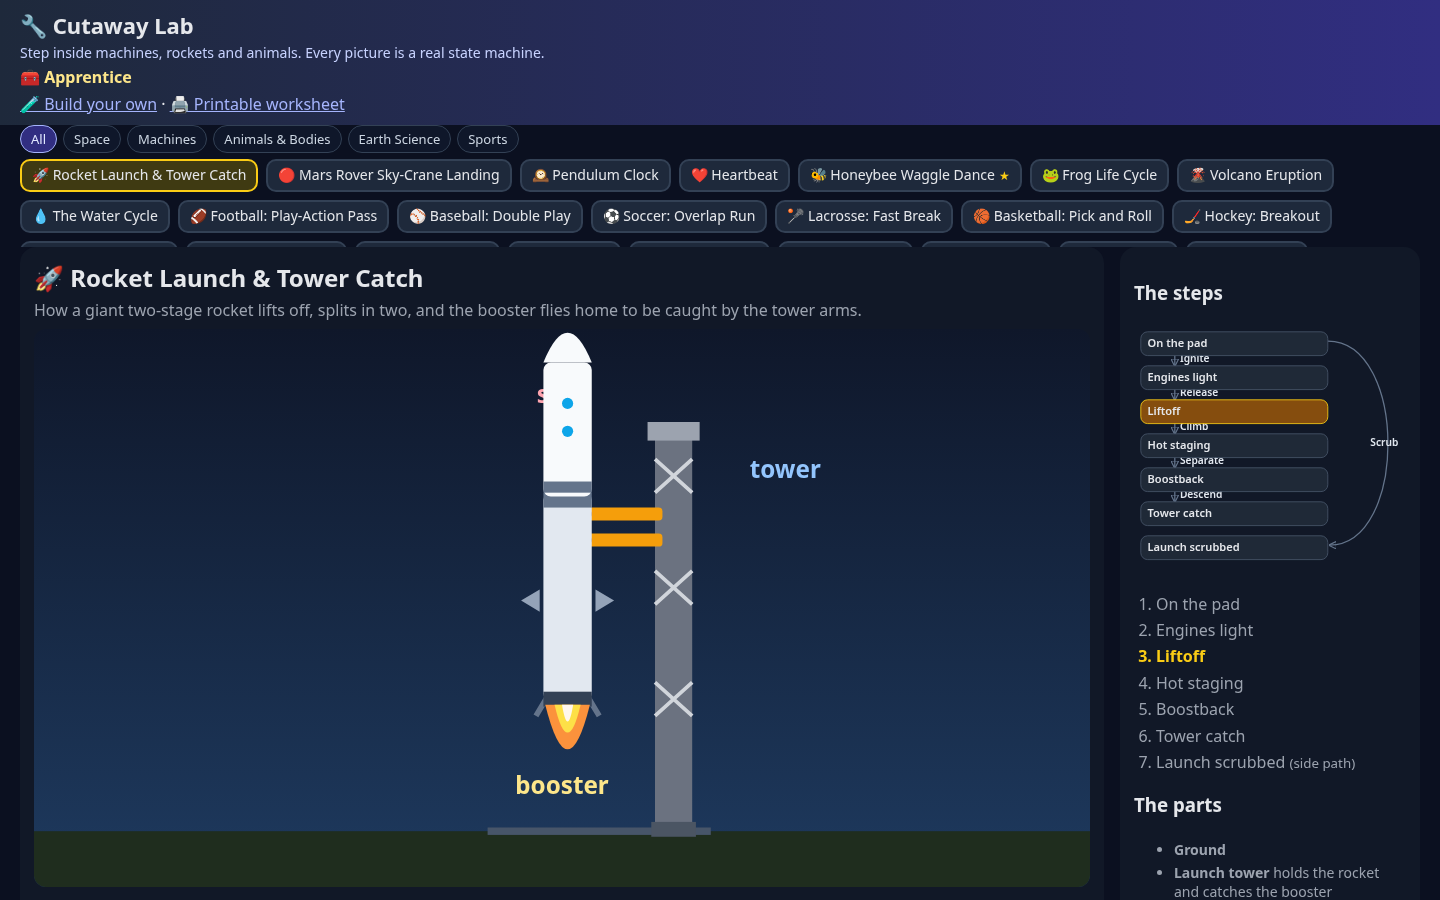
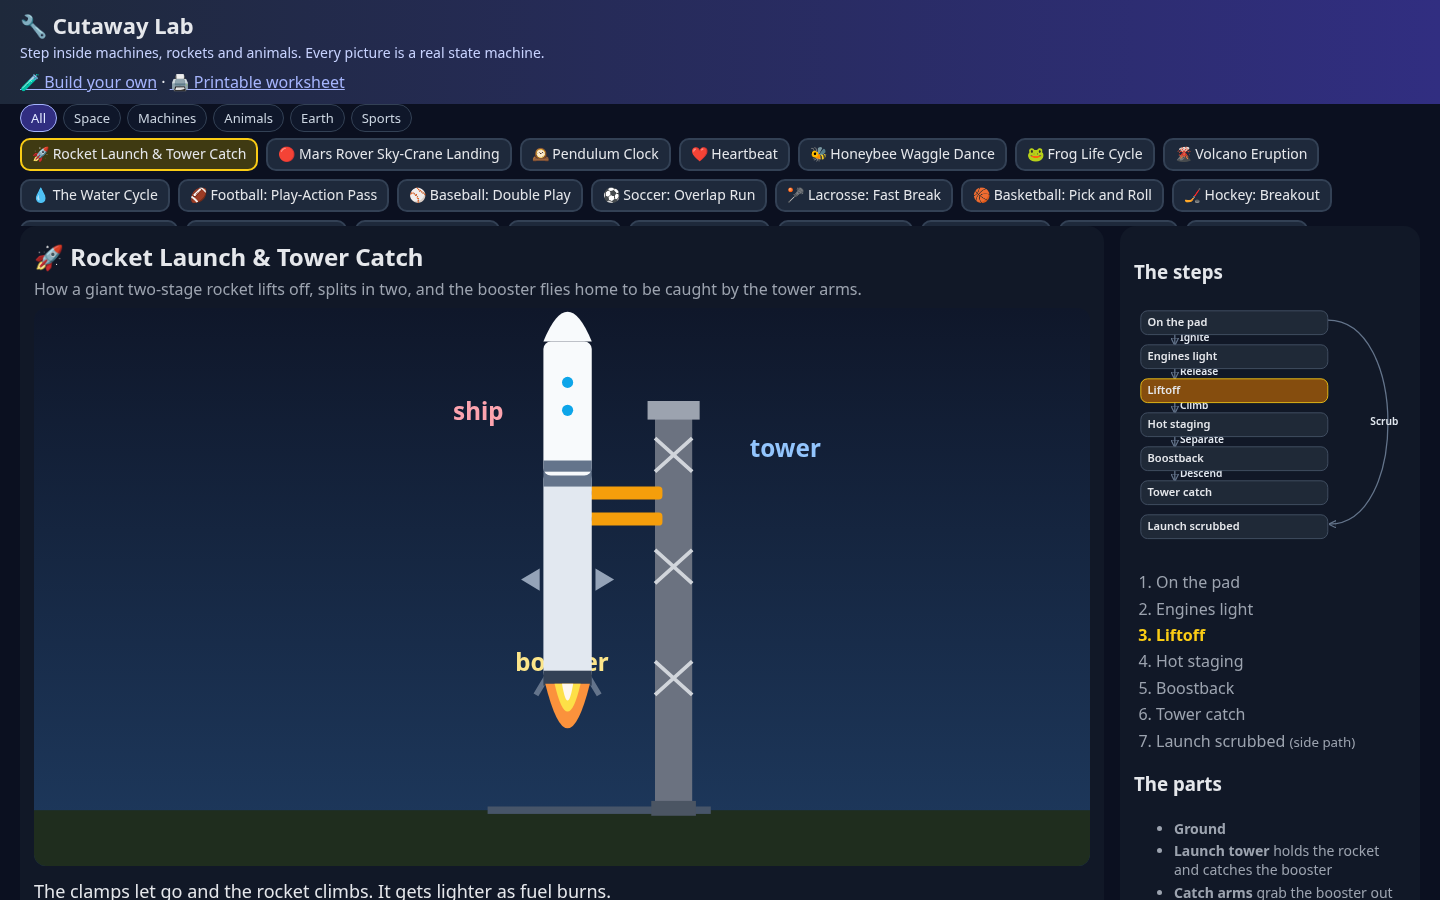
v1.0: polish — extinguisher/pulley/compass labels, starship ship tag tracks climb, phone topic shorts, hockey/basketball role tags

diff --git a/machines/starship.js b/machines/starship.js
@@ -10,7 +10,7 @@ export default {
     { id: 'lblBooster', label: 'Booster label',
       svg: '<text x="200" y="250" text-anchor="middle" fill="#fde68a" font-size="13" font-weight="700">booster</text>' },
     { id: 'lblShip', label: 'Ship label',
-      svg: '<text x="200" y="40" text-anchor="middle" fill="#fda4af" font-size="13" font-weight="700">ship</text>', pose: { opacity: 0 } },
+      svg: '<text x="155" y="110" text-anchor="middle" fill="#fda4af" font-size="13" font-weight="700">ship</text>', pose: { opacity: 0 } },
     { id: 'arms', label: 'Catch arms', job: 'grab the booster out of the air', svg: '<rect x="210" y="96" width="44" height="7" rx="2" fill="#f59e0b"/><rect x="210" y="110" width="44" height="7" rx="2" fill="#f59e0b"/><circle cx="214" cy="99.5" r="2" fill="#78350f"/><circle cx="214" cy="113.5" r="2" fill="#78350f"/>', explode: [40, -20] },
     { id: 'lblArms', label: 'Arms label',
       svg: '<text x="340" y="140" text-anchor="middle" fill="#fb923c" font-size="12" font-weight="700">arms</text>', pose: { opacity: 1 } },
@@ -21,8 +21,8 @@ export default {
   states: {
     pad: { label: 'On the pad', caption: 'The rocket stands next to the tower, full of super-cold fuel.', on: { IGNITE: 'ignition', SCRUB: 'scrubbed' } , parts: { lblShip: { opacity: 0 }, lblBooster: { opacity: 1 }, lblTower: { opacity: 1 } }},
     ignition: { label: 'Engines light', caption: 'Dozens of engines light. Clamps hold the rocket down for a moment.', on: { RELEASE: 'liftoff' }, parts: { lblShip: { opacity: 0.5 }, lblBooster: { opacity: 1 },  flame: { opacity: 1 } } },
-    liftoff: { label: 'Liftoff', caption: 'The clamps let go and the rocket climbs. It gets lighter as fuel burns.', on: { CLIMB: 'staging' }, parts: { lblArms: { opacity: 0 },  lblShip: { opacity: 1 }, lblBooster: { opacity: 1 },  flame: { opacity: 1, y: -60 }, booster: { y: -60 }, ship: { y: -60 } } },
-    staging: { label: 'Hot staging', caption: 'High up, the ship lights its own engines and pushes off the booster.', on: { SEPARATE: 'boostback' }, parts: { lblArms: { opacity: 0 },  lblShip: { opacity: 1 }, lblBooster: { opacity: 1 },  booster: { y: -70, x: -30, rot: -10 }, ship: { y: -60, x: 45, rot: 8 }, flame: { opacity: 1, y: -70, x: -30, rot: -10, scale: 0.6 } } },
+    liftoff: { label: 'Liftoff', caption: 'The clamps let go and the rocket climbs. It gets lighter as fuel burns.', on: { CLIMB: 'staging' }, parts: { lblArms: { opacity: 0 },  lblShip: { opacity: 1, y: -50 }, lblBooster: { opacity: 1, y: -55 },  flame: { opacity: 1, y: -60 }, booster: { y: -60 }, ship: { y: -60 } } },
+    staging: { label: 'Hot staging', caption: 'High up, the ship lights its own engines and pushes off the booster.', on: { SEPARATE: 'boostback' }, parts: { lblArms: { opacity: 0 },  lblShip: { opacity: 1, y: -45, x: 55 }, lblBooster: { opacity: 1, y: -55, x: -40 },  booster: { y: -70, x: -30, rot: -10 }, ship: { y: -60, x: 45, rot: 8 }, flame: { opacity: 1, y: -70, x: -30, rot: -10, scale: 0.6 } } },
     boostback: { label: 'Boostback', caption: 'The booster flips around and burns its engines to fly back to the tower.', on: { DESCEND: 'catch' }, parts: { booster: { y: -90, x: 0, rot: 180 }, ship: { y: -200, x: 120, opacity: 0.3, scale: 0.5 }, flame: { opacity: 0 } } },
     catch: { label: 'Tower catch', caption: 'The arms close and catch the booster in mid-air, so it can fly again.', on: {}, parts: { lblArms: { opacity: 1 },  lblShip: { opacity: 0 }, lblBooster: { opacity: 1 }, lblTower: { opacity: 1 },  booster: { y: -40, x: 20 }, arms: { y: 50 }, ship: { opacity: 0 } } },
     scrubbed: { label: 'Launch scrubbed', caption: 'Something looked wrong, so the team stops safely and tries another day.', on: {} },

diff --git a/machines/hockey.js b/machines/hockey.js
@@ -10,7 +10,9 @@ export default {
     { id: 'lblD', label: 'D label',
       svg: '<text x="100" y="220" text-anchor="middle" fill="#93c5fd" font-size="11" font-weight="700">D</text>' },
     { id: 'lblWing', label: 'Wing label',
-      svg: '<text x="280" y="120" text-anchor="middle" fill="#fde68a" font-size="11" font-weight="700">W</text>' },
+      svg: '<text x="140" y="55" text-anchor="middle" fill="#fde68a" font-size="11" font-weight="700">W</text>' },
+    { id: 'lblC', label: 'Center label',
+      svg: '<text x="220" y="135" text-anchor="middle" fill="#a7f3d0" font-size="11" font-weight="700">C</text>' },
     { id: 'winger', label: 'Winger', job: 'posts up on the boards for the outlet',
       svg: '<circle cx="140" cy="70" r="11" fill="#0d9488" stroke="#5eead4" stroke-width="2"/><text x="140" y="74" text-anchor="middle" fill="#ccfbf1" font-size="11" font-weight="700">14</text>', explode: [0, -25] },
     { id: 'center', label: 'Center', job: 'stretches through the neutral zone',
@@ -26,9 +28,9 @@ export default {
   ],
   states: {
     retrieve: { label: 'Retrieve', caption: 'Puck dumped in. Defenseman wheels behind the net and looks up-ice.', on: { OUTLET: 'outlet', CHIP: 'chip' }, parts: { dman: { x: 10, y: 15 }, puck: { x: 15, y: 10 } } },
-    outlet: { label: 'Tape-to-tape outlet', caption: 'A crisp pass hits the winger on the boards. Forechecker is a step late.', on: { EXIT: 'zoneExit' }, parts: { puck: { x: 80, y: -110 }, lane: { opacity: 1 }, winger: { x: 10 }, forecheck: { x: 20, y: 10 } } },
-    zoneExit: { label: 'Exit the zone', caption: 'Winger curls up-ice with speed. Center times a cut through the middle.', on: { STRETCH: 'stretch' }, parts: { puck: { x: 120, y: -80 }, winger: { x: 50, y: 40 }, center: { x: 30, y: -5 }, lane: { opacity: 0.5 }, dman: { opacity: 0.7 } } },
-    stretch: { label: 'Stretch pass', caption: 'Winger hits the center streaking through the neutral zone. Odd-man rush!', on: {}, parts: { puck: { x: 160, y: -40 }, center: { x: 80, y: -10 }, winger: { x: 40, y: 20 }, lane: { opacity: 0.3 }, dman: { opacity: 0.6 } } },
+    outlet: { label: 'Tape-to-tape outlet', caption: 'A crisp pass hits the winger on the boards. Forechecker is a step late.', on: { EXIT: 'zoneExit' }, parts: { puck: { x: 80, y: -110 }, lane: { opacity: 1 }, winger: { x: 10 }, lblWing: { x: 10 }, forecheck: { x: 20, y: 10 } } },
+    zoneExit: { label: 'Exit the zone', caption: 'Winger curls up-ice with speed. Center times a cut through the middle.', on: { STRETCH: 'stretch' }, parts: { puck: { x: 120, y: -80 }, winger: { x: 50, y: 40 }, lblWing: { x: 50, y: 40 }, center: { x: 30, y: -5 }, lblC: { x: 30, y: -5 }, lane: { opacity: 0.5 }, dman: { opacity: 0.7 } } },
+    stretch: { label: 'Stretch pass', caption: 'Winger hits the center streaking through the neutral zone. Odd-man rush!', on: {}, parts: { puck: { x: 160, y: -40 }, center: { x: 80, y: -10 }, lblC: { x: 80, y: -10 }, winger: { x: 40, y: 20 }, lblWing: { x: 40, y: 20 }, lane: { opacity: 0.3 }, dman: { opacity: 0.6 } } },
     chip: { label: 'Chip off the glass', caption: 'Pressure is too tight. Defenseman chips it off the glass and out. Safe, but no rush.', on: {}, parts: { puck: { x: 40, y: -80 }, dman: { x: 20 }, forecheck: { x: 15 } } },
   },
 };

diff --git a/machines/basketball.js b/machines/basketball.js
@@ -28,9 +28,9 @@ export default {
   ],
   states: {
     iso: { label: 'Isolation set', caption: 'Ball-handler faces up. Screener walks over to set a pick on the defender.', on: { SCREEN: 'screen' }, parts: { screener: { x: -10 } } },
-    screen: { label: 'Screen set', caption: 'Solid screen! The on-ball defender runs into it. Ball-handler turns the corner.', on: { TURN: 'turn', SWITCH: 'switch' }, parts: { screen: { opacity: 1 }, handler: { x: 30, y: -10 }, defender1: { x: -5, y: 15 }, ball: { x: 25, y: -10 } } },
-    turn: { label: 'Turn the corner', caption: 'Ball-handler attacks downhill. Help defender has to choose: stay home or help.', on: { DISH: 'dish' }, parts: { handler: { x: 80, y: -20 }, ball: { x: 75, y: -20 }, screen: { opacity: 0.4 }, screener: { x: 40 }, defender2: { x: 20 }, roll: { opacity: 0.5 } } },
-    dish: { label: 'Dish to the roll', caption: 'A bounce pass hits the screener rolling to the rim. Layup — two points!', on: {}, parts: { ball: { x: 140, y: -10 }, screener: { x: 100, y: 5 }, roll: { opacity: 1 }, handler: { x: 90, y: -25 }, defender2: { x: 40, y: 10 } } },
+    screen: { label: 'Screen set', caption: 'Solid screen! The on-ball defender runs into it. Ball-handler turns the corner.', on: { TURN: 'turn', SWITCH: 'switch' }, parts: { screen: { opacity: 1 }, handler: { x: 30, y: -10 }, lblBall: { x: 30, y: -10 }, defender1: { x: -5, y: 15 }, ball: { x: 25, y: -10 } } },
+    turn: { label: 'Turn the corner', caption: 'Ball-handler attacks downhill. Help defender has to choose: stay home or help.', on: { DISH: 'dish' }, parts: { handler: { x: 80, y: -20 }, lblBall: { x: 80, y: -20 }, ball: { x: 75, y: -20 }, screen: { opacity: 0.4 }, screener: { x: 40 }, lblScreen: { x: 40 }, defender2: { x: 20 }, roll: { opacity: 0.5 } } },
+    dish: { label: 'Dish to the roll', caption: 'A bounce pass hits the screener rolling to the rim. Layup — two points!', on: {}, parts: { ball: { x: 140, y: -10 }, screener: { x: 100, y: 5 }, lblScreen: { x: 100, y: 5 }, roll: { opacity: 1 }, handler: { x: 90, y: -25 }, lblBall: { x: 90, y: -25 }, defender2: { x: 40, y: 10 } } },
     switch: { label: 'Defense switches', caption: 'Defenders switch. Ball-handler pulls up for a mid-range jumper instead.', on: {}, parts: { handler: { x: 50, y: -30 }, ball: { x: 50, y: -50 }, defender1: { x: 40 }, defender2: { x: -30, y: 20 }, screener: { opacity: 0.6 } } },
   },
 };

diff --git a/machines/compass.js b/machines/compass.js
@@ -7,6 +7,10 @@ export default {
       svg: '<circle cx="200" cy="155" r="100" fill="#1e293b" stroke="#94a3b8" stroke-width="4"/>' },
     { id: 'dial', label: 'Dial', job: 'marks north, south, east, and west',
       svg: '<text x="200" y="72" text-anchor="middle" fill="#f87171" font-size="16" font-weight="800">N</text><text x="200" y="248" text-anchor="middle" fill="#e2e8f0" font-size="14" font-weight="700">S</text><text x="100" y="160" text-anchor="middle" fill="#e2e8f0" font-size="14" font-weight="700">W</text><text x="300" y="160" text-anchor="middle" fill="#e2e8f0" font-size="14" font-weight="700">E</text>', explode: [0, -40] },
+    { id: 'lblNeedle', label: 'Needle label',
+      svg: '<text x="265" y="100" text-anchor="middle" fill="#fca5a5" font-size="12" font-weight="700">needle</text>' },
+    { id: 'lblField', label: 'Field label',
+      svg: '<text x="200" y="30" text-anchor="middle" fill="#93c5fd" font-size="12" font-weight="700">magnetic north</text>' },
     { id: 'needle', label: 'Needle', job: 'is a magnet that tries to point toward magnetic north',
       svg: '<polygon points="200,80 210,160 200,240 190,160" fill="#94a3b8"/><polygon points="200,80 208,150 200,160 192,150" fill="#ef4444"/>', explode: [50, 0] },
     { id: 'pivot', label: 'Pivot', job: 'lets the needle spin with almost no friction',

diff --git a/machines/pulley.js b/machines/pulley.js
@@ -10,7 +10,11 @@ export default {
     { id: 'lblWheel', label: 'Wheel label',
       svg: '<text x="200" y="70" text-anchor="middle" fill="#fde68a" font-size="13" font-weight="700">pulley</text>' },
     { id: 'lblLoad', label: 'Load label',
-      svg: '<text x="200" y="260" text-anchor="middle" fill="#86efac" font-size="13" font-weight="700">load</text>' },
+      svg: '<text x="200" y="280" text-anchor="middle" fill="#86efac" font-size="13" font-weight="700">load</text>' },
+    { id: 'lblPull', label: 'Pull label',
+      svg: '<text x="70" y="240" text-anchor="middle" fill="#f9a8d4" font-size="12" font-weight="700">pull</text>' },
+    { id: 'lblRope', label: 'Rope label',
+      svg: '<text x="130" y="100" text-anchor="middle" fill="#e2e8f0" font-size="12" font-weight="700">rope</text>' },
     { id: 'rope', label: 'Rope', job: 'carries the tension from your pull to the load',
       svg: '<path d="M200 156 V220 M164 120 H100 V200" fill="none" stroke="#e2e8f0" stroke-width="4"/>', explode: [-40, 20] },
     { id: 'load', label: 'Load', job: 'the weight you want to lift',

diff --git a/src/app.js b/src/app.js
@@ -99,8 +99,9 @@ function fillPicker() {
   if (S.m) document.querySelectorAll('#picker button').forEach((b) => b.setAttribute('aria-pressed', String(b.dataset.id === S.m.id)));
   stars();
 }
+const TOPIC_SHORT = { 'Animals & Bodies': 'Animals', 'Earth Science': 'Earth', Machines: 'Machines', Sports: 'Sports', Space: 'Space' };
 const topics = ['All', ...new Set(machines.map((m) => m.topic))];
-$('#topics').innerHTML = topics.map((t) => `<button type="button" data-topic="${t}" aria-pressed="${t==='All'}">${t}</button>`).join('');
+$('#topics').innerHTML = topics.map((t) => `<button type="button" data-topic="${t}" aria-pressed="${t==='All'}" title="${t}">${TOPIC_SHORT[t] || t}</button>`).join('');
 document.querySelectorAll('#topics button').forEach((b) => (b.onclick = () => {
   topicFilter = b.dataset.topic;
   document.querySelectorAll('#topics button').forEach((x) => x.setAttribute('aria-pressed', String(x === b)));

diff --git a/machines/extinguisher.js b/machines/extinguisher.js
@@ -18,7 +18,7 @@ export default {
     { id: 'lblPin', label: 'Pin label',
       svg: '<text x="140" y="80" text-anchor="middle" fill="#fca5a5" font-size="12" font-weight="700">pin</text>' },
     { id: 'lblBase', label: 'Base label',
-      svg: '<text x="280" y="250" text-anchor="middle" fill="#fb923c" font-size="12" font-weight="700">aim at base</text>', pose: { opacity: 0 } },
+      svg: '<text x="335" y="295" text-anchor="middle" fill="#fb923c" font-size="12" font-weight="700">aim here</text>', pose: { opacity: 0 } },
     { id: 'spray', label: 'Spray',
       svg: '<g fill="#e2e8f0" opacity=".85"><ellipse cx="330" cy="200" rx="30" ry="18"/><ellipse cx="350" cy="220" rx="22" ry="12"/><ellipse cx="340" cy="235" rx="16" ry="8"/></g>', pose: { opacity: 0 } },
     { id: 'fire', label: 'Fire base',
